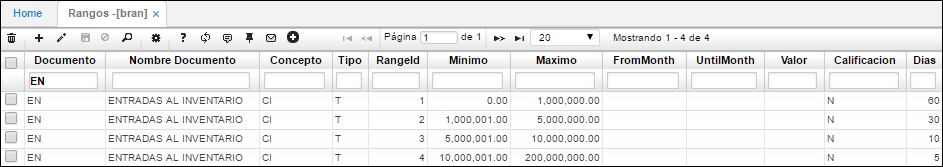
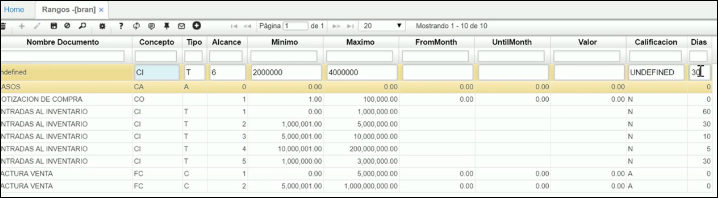
Inventario Ciclico

diff --git a/Operacion/scm/inventarios/ifisico/ifis.md b/Operacion/scm/inventarios/ifisico/ifis.md
@@ -26,20 +26,22 @@ Generado anteriormente el proceso de la aplicación [**IFPI - Prepara Inventario
 
 En el campo _Cantidad 1_ se ingresará por cada artículo el número de productos encontrados en el inventario realizado. Si el inventario lo va a realizar más de una persona, los usuarios ingresarán las cantidades en los campos _Cantidad 2_ y _Cantidad 3_. Estos datos corresponden a la información que se ingresó en la planilla descargada desde la aplicación [**IRIF - Plantilla Para Conteo Físico**](http://docs.oasiscom.com/Operacion/scm/inventarios/ifisico/irif).  
 
-Al ingresar un número en el campo _Cantidad 1_, es necesario dar click en el botón _Guardar_ de la barra de herramientas u oprimir la tecla _Enter_ para que el registro sea guardado.  
+Al ingresar un número en el campo _Cantidad 1_, es necesario dar clic en el botón _Guardar_ de la barra de herramientas u oprimir la tecla _Enter_ para que el registro sea guardado.  
 
 Ingresadas las cantidades de cada artículo, nos dirigiremos a la aplicación [**IFCD - Calcula Diferencias**](http://docs.oasiscom.com/Operacion/scm/inventarios/ifisico/ifcd), la cual nos ayudará a calcular las diferencias de existencias encontradas por el sistema en su base de datos con las ingresadas por el usuario.  
 
 
 ## [Inventario Cíclico](http://docs.oasiscom.com/Operacion/scm/inventarios/ifisico/ifis#inventario-cíclico)
 
-Generado anteriormente el proceso de la aplicación [**IFPI - Prepara Inventario Diario**](http://docs.oasiscom.com/Operacion/scm/inventarios/ifisico/ifpi#inventario-cíclico), procedemos a ingresar las cantidades de los productos inventariados en la aplicación IFIS - Registro de Conteos. Se consultará por fecha y ubicación, siendo estas, las mismas que se ingresaron en la generación del proceso en la aplicación  [**IFPI - Prepara Inventario Diario**](http://docs.oasiscom.com/Operacion/scm/inventarios/ifisico/ifpi#inventario-cíclico).  En dicha consulta, solo aparecerán los productos que clasifican en el rango indicado anteriormente en la generación del inventario cíclico así no se encuentren existencias de los productos.  
+Generado anteriormente el proceso de la aplicación [**IFPI - Prepara Inventario Diario**](http://docs.oasiscom.com/Operacion/scm/inventarios/ifisico/ifpi#inventario-cíclico), procedemos a ingresar las cantidades de los productos inventariados en la aplicación **IFIS - Registro de Conteos.** Se consultará por fecha y ubicación, siendo estas, las mismas que se ingresaron en la generación del proceso en la aplicación  [**IFPI - Prepara Inventario Diario**](http://docs.oasiscom.com/Operacion/scm/inventarios/ifisico/ifpi#inventario-cíclico).  En dicha consulta, solo aparecerán los productos que los cuales realizaremos el inventario ese dia. 
 
 ![](ifis4.png)
 
-En el campo _Cantidad 1_ se ingresará por cada artículo el número de productos encontrados en el inventario realizado. Si el inventario lo va a realizar más de una persona, los usuarios ingresarán las cantidades en los campos _Cantidad 2_ y _Cantidad 3_. Estos datos corresponden a la información que se ingresó en la planilla descargada desde la aplicación [**IRIF - Plantilla Para Conteo Físico**](http://docs.oasiscom.com/Operacion/scm/inventarios/ifisico/irif).
+En el campo _Cantidad 1_ se ingresará por cada artículo el número de productos encontrados en el inventario realizado. Si el inventario lo va a realizar más de una persona, los usuarios ingresarán las cantidades en los campos _Cantidad 2_ y _Cantidad 3_. 
 
-Al ingresar un número en el campo _Cantidad 1_, es necesario dar click en el botón _Guardar_ de la barra de herramientas u oprimir la tecla _Enter_ para que el registro sea guardado.  
+El sistema cuenta con una planilla de conteo físico la cual podemos descargar desde la aplicación [**IRIF - Plantilla Para Conteo Físico**](http://docs.oasiscom.com/Operacion/scm/inventarios/ifisico/irif).
+
+Al ingresar un número en el campo _Cantidad 1_, es necesario dar clic en el botón _Guardar_ de la barra de herramientas u oprimir la tecla _Enter_ para que el registro sea guardado.  
 
 En el campo _Real_, se muestran las cantidades por producto que existen en el sistema.  
 
@@ -50,8 +52,8 @@ Ingresadas las cantidades de cada artículo, nos dirigiremos a la aplicación [*
 
 ## [Validación de diferencias en inventario](http://docs.oasiscom.com/Operacion/scm/inventarios/ifisico/ifis#validación-de-diferencias-en-inventario)
 
-Generado el proceso en la aplicación  [**IFCD - Calcula Diferencias**](http://docs.oasiscom.com/Operacion/scm/inventarios/ifisico/ifcd), en la aplicación IFIS - Registo de Conteos validaremos las diferencias de existencias calculadas por el sistema, estas se podrán ver en el campo _Diferencia_.  
+Generado el proceso en la aplicación  [**IFCD - Calcula Diferencias**](http://docs.oasiscom.com/Operacion/scm/inventarios/ifisico/ifcd), en la aplicación **IFIS - Registro de Conteos** validaremos las diferencias de existencias calculadas por el sistema, estas se podrán ver en el campo _Diferencia_.  
 
 ![](ifis3.png)
 
-Validadas las diferencias ingresaremos a la aplicación [**IFAJ - Genera Ajustes**](http://docs.oasiscom.com/Operacion/scm/inventarios/ifisico/ifaj), en donde se generará el proceso para que el sistema realice los ajustes correspondientes al inventario de acuerdo a las diferencias encontradas anteriormente.  
+Validadas las diferencias ingresaremos a la aplicación [**IFAJ - Genera Ajustes**](http://docs.oasiscom.com/Operacion/scm/inventarios/ifisico/ifaj), en donde se generará el proceso para que el sistema realice los ajustes correspondientes al inventario de acuerdo con las diferencias encontradas anteriormente.   

diff --git a/Operacion/scm/inventarios/ifisico/ifpi.md b/Operacion/scm/inventarios/ifisico/ifpi.md
@@ -16,7 +16,7 @@ Proceso que genera un inventario diario para realizar los controles correspondie
 
 ## [Inventario Periódico](http://docs.oasiscom.com/Operacion/scm/inventarios/ifisico/ifpi#inventario-periódico)
 
-Mediante la aplicación IFPI se genera el inventario diario a realizar. Este proceso se debe ejecutar el mismo día en que se vaya a realizar el invantario.  
+Mediante la aplicación IFPI se genera el inventario diario a realizar. Este proceso se debe ejecutar el mismo día en que se vaya a realizar el inventario.  
 
 ![](ifpi1.png)
 
@@ -28,11 +28,11 @@ Para ejecutar el proceso de preparación de inventario periódico ingresamos los
 **Proceso:** seleccionar de la lista desplegable la opción _Periódico_.  
 **Tipo Producto:** seleccionar de la lista desplegable la opción _Terminado_.  
 
-Ingresados los datos, damos click en el botón _Generar_ ![](actualizar.png) y el sistema arrojará un mensaje indicando que el proceso se realizó satisfactoriamente.  
+Ingresados los datos, damos clic en el botón _Generar_ ![](actualizar.png) y el sistema arrojará un mensaje indicando que el proceso se realizó satisfactoriamente.  
 
 ![](ifpi2.png)
 
-Generado el anterior proceso, procederemos a realizar el inventario periódico en la aplicación [**IFIS - Registro de Conteos**](http://docs.oasiscom.com/Operacion/scm/inventarios/ifisico/ifis#inventario-periódico), para ello, el sistema cuenta con una planilla para conteo físico, la cual se puede descargar en la aplicación [**IRIF - Plantilla Para Conteo Físico**](http://docs.oasiscom.com/Operacion/scm/inventarios/ifisico/irif). En dicha planilla se podrán observar los productos a los cuales se les realizará inventario de acuerdo a los filtros de consulta, igualmente, cuenta con espacios para que los usuarios ingresen las cantidades de productos por cada uno.  
+Generado el anterior proceso, procederemos a realizar el inventario periódico en la aplicación [**IFIS - Registro de Conteos**](http://docs.oasiscom.com/Operacion/scm/inventarios/ifisico/ifis#inventario-periódico), para ello, el sistema cuenta con una planilla para conteo físico, la cual se puede descargar en la aplicación [**IRIF - Plantilla Para Conteo Físico**](http://docs.oasiscom.com/Operacion/scm/inventarios/ifisico/irif). En dicha planilla se podrán observar los productos a los cuales se les realizará inventario de acuerdo con los filtros de consulta, igualmente, cuenta con espacios para que los usuarios ingresen las cantidades de productos por cada uno.  
 
 
 ## [Inventario Cíclico](http://docs.oasiscom.com/Operacion/scm/inventarios/ifisico/ifpi#inventario-cíclico)
@@ -43,17 +43,17 @@ Para ejecutar el proceso de preparación de inventario cíclico ingresamos los s
 
 ![](ifpic.png)
 
-**Fecha:** ingresar el día anterior del cual se va a realizar el inventario cíclico.  
+**Fecha:** ingresar fecha del día el cual se va a realizar el inventario físico.  
 **Ubicación:** ingresar o seleccionar del zoom la ubicación (bodega) en la cual se encuentran los productos.  
 **Proceso:** seleccionar de la lista desplegable la opción _Cíclico_.  
 **Tipo Producto:** seleccionar de la lista desplegable la opción _Terminado_.  
 **Ciclo:** ingresar el número del rango del cual se realizará inventario. Dicho número se parametrizó en aplicación  [**BRAN - Rangos**](http://docs.oasiscom.com/Operacion/common/btercer/bran#inventario-cíclico) en el campo _Id Rango_.  
 
-Ingresados los datos, damos click en el botón _Generar_ ![](actualizar.png) y el sistema arrojará un mensaje indicando que el proceso se realizó satisfactoriamente.  
+Ingresados los datos, damos clic en el botón _Generar_ ![](actualizar.png) y el sistema arrojará un mensaje indicando que el proceso se realizó satisfactoriamente.  
 
 ![](ifpicp.png)
 
-Generado el anterior proceso, procederemos a realizar el inventario cíclico en la aplicación [**IFIS - Registro de Conteos**](http://docs.oasiscom.com/Operacion/scm/inventarios/ifisico/ifis#inventario-cíclico), para ello, el sistema cuenta con una planilla para conteo físico, la cual se puede descargar en la aplicación [**IRIF - Plantilla Para Conteo Físico**](http://docs.oasiscom.com/Operacion/scm/inventarios/ifisico/irif). En dicha planilla se podrán observar los productos a los cuales se les realizará inventario de acuerdo a los filtros de consulta, igualmente, cuenta con espacios para que los usuarios ingresen las cantidades de productos por cada uno.  
+Generado el anterior proceso, procederemos a realizar el inventario cíclico en la aplicación [**IFIS - Registro de Conteos**](http://docs.oasiscom.com/Operacion/scm/inventarios/ifisico/ifis#inventario-cíclico), para ello, el sistema cuenta con una planilla para conteo físico, la cual se puede descargar en la aplicación [**IRIF - Plantilla Para Conteo Físico**](http://docs.oasiscom.com/Operacion/scm/inventarios/ifisico/irif). En dicha planilla se podrán observar los productos a los cuales se les realizará inventario de acuerdo con los filtros de consulta, igualmente, cuenta con espacios para que los usuarios ingresen las cantidades de productos por cada uno.   
 
 
 

diff --git a/Operacion/common/btercer/bran.md b/Operacion/common/btercer/bran.md
@@ -10,6 +10,7 @@ editable: si
 Para realizar el inventario cíclico es necesario parametrizar previamente en la aplicación **BRAN** los rangos de los valores que corresponden al total de inventario y que se tendrán en cuenta al momento de generar dicho inventario.
 
 
+
 ## [Inventario Cíclico](http://docs.oasiscom.com/Operacion/common/btercer/bran#inventario-cíclico)
 
 Agregamos un nuevo registro y diligenciamos los siguientes campos.  
@@ -17,11 +18,18 @@ Agregamos un nuevo registro y diligenciamos los siguientes campos.
 ![](BRAN.png)
 
 **Documento:** ingresar documento EN correspondiente a _Entradas al Inventario_.  
-**Concepto:** ingresar el concepto que la empresa haya parametrizado en la aplicación [**BDOC - Documentos**](http://docs.oasiscom.com/Operacion/common/bsistema/bdoc) para este tipo de documento. En este caso, el concepto será CI correspondiente a _Cargue Inicial por Inventario Físico_.  
+**Concepto:** ingresar el concepto que la empresa haya parametrizado en la aplicación [**BDOC - Documentos**](http://docs.oasiscom.com/Operacion/common/bsistema/bdoc) para este tipo de documento. En este caso, el concepto será CI correspondiente a _Cargue Inicial por Inventario Físico_, este puede variar según la parametrización de la empresa.  
 **Tipo:** ingresar la letra **T** correspondiente a _Terminado_.  
-**Id del Rango:** asignar el número de renglón para cada rango, este número es el que identifica cada rango en las demás aplicaciones que lo requieran.  
-**Mínimo:** ingresar el valor mínimo del rango que se regista.  
+**Alcance:** asignar el número de renglón para cada rango, este número es el que identifica cada rango en las demás aplicaciones que lo requieran.  
+**Mínimo:** ingresar el valor mínimo del rango que se revista.  
 **Máximo:** ingresar el valor máximo del rango que se registra. Este valor corresponde a la suma del total de productos inventariados.  
 **Días:** ingresar la cantidad de días que se deberá realizar el inventario para cada rango.  
 
-Parametrizados los rangos, ingresaremos a la aplicación [**IFPI - Prepara Inventario Diario**](http://docs.oasiscom.com/Operacion/scm/inventarios/ifisico/ifpi#inventario-cíclico), en donde se generará el proceso para realizar el inventario cíclico.  
+Después de llenar los campos correspondientes procedemos a guardar dando clic ![](guardar.png)
+
+Parametrizados los rangos, ingresaremos a la aplicación [**IFPI - Prepara Inventario Diario**](http://docs.oasiscom.com/Operacion/scm/inventarios/ifisico/ifpi#inventario-cíclico), en donde se generará el proceso para realizar el inventario cíclico.   
+
+
+
+
+

diff --git a/Operacion/scm/inventarios/imovimient/imov.md b/Operacion/scm/inventarios/imovimient/imov.md
@@ -336,19 +336,12 @@ Una vez validada la información del pedido se procesa el documento y se realiza
 
 
 **Documento:** SA correspondiente a salida de inventario.  
-
 **Ubicación:** 3 correspondiente a la ubicación de donde saldrá la mercancía.  
-
 **Concepto:** TR correspondiente a traslado.  
-
 **Tercero:** Tercero correspondiente.  
-
 **Ubicación Destino:** 1 La ubicación a la que se requiere llevar la mercancía.  
-
 **Documento1:** LD Documento del pedido creado automáticamente en **LPED**.  
-
 **Número1:** 2 Número del pedido correspondiente al campo anterior.  
-
 **Ubicación1:** 1 Ubicación del pedido correspondiente al campo anterior.  
 
 
@@ -393,9 +386,7 @@ Se procesa el registro
 
 En la aplicación **IMOV** se validarán los documentos de ajuste generados por la aplicación [**IFAJ - Genera Ajustes**](http://docs.oasiscom.com/Operacion/scm/inventarios/ifisico/ifaj), estos deberán ser procesados con el fin de adecuar correctamente el inventario realizado.  
 
-
-
-Para consultar los documentos filtraremos por la fecha en que se realizó el inventario.  
+Estos documentos se pueden procesar con el fin de adecuar el inventario realizado. Para consultar los documentos filtraremos por la fecha en que se realizó el inventario.  
 
 
 
@@ -405,6 +396,8 @@ Para consultar los documentos filtraremos por la fecha en que se realizó el inv
 
 En la aplicación se generó un documento _EN - Entradas al inventario_ por concepto _EA - Entrada por ajuste_, el cual corresponde a las unidades que se encuentran físicamente pero que no estaban registradas en el sistema. Por otro lado, también se generó el documento _SA - Salidas del inventario_ por concepto _SA - Salida por ajuste_, el cual corresponde a las unidades de más que se encuentran registradas en el sistema pero que no existen físicamente. En el detalle de cada documento se podrán ver los productos a los cuales se les realizó ajuste.  
 
+
+![](imovv.png)
 
 
 Validada la información procesamos los documentos dando clic en el botón _Procesar_ ![](procesar.png) ubicado en la barra de herramientas, esto permitirá que el inventario sea ajustado correctamente.  

diff --git a/Operacion/movil/ifisico/ifpi.md b/Operacion/movil/ifisico/ifpi.md
@@ -7,18 +7,18 @@ editable: si
 
 # Prepara Inventario Diario - IFPI  
 
-Mediante la aplicación IFPI se genera la preparación del inventario a realizar. Este proceso se debe ejecutar el mismo día en que se vaya a realizar el inventario.  
+Mediante la aplicación **IFPI** se genera la preparación del inventario a realizar. Este proceso se debe ejecutar el mismo día en que se vaya a realizar el inventario.  
 
 ![](ifpi1.png)
 
-•	Para ejecutar el proceso de preparación de inventario periódico ingresamos los siguientes datos:
-Fecha: fecha actual en la que se va a realizar el inventario.
-Ubicación: ingresar o seleccionar del zoom la ubicación (bodega) en la cual se encuentran los productos.
-Línea: si el inventario se va a realizar por la línea de producto, ingresar la línea correspondiente.
-Proceso: seleccionar de la lista desplegable la opción Periódico.
-Tipo Producto: seleccionar de la lista desplegable la opción Terminado.
+Para ejecutar el proceso de preparación de inventario periódico ingresamos los siguientes datos:
+**Fecha:** fecha actual en la que se va a realizar el inventario.  
+**Ubicación:** ingresar o seleccionar del zoom la ubicación (bodega) en la cual se encuentran los productos.  
+**Línea:** si el inventario se va a realizar por la línea de producto, ingresar la línea correspondiente.  
+**Proceso:** seleccionar de la lista desplegable la opción Periódico.  
+**Tipo Producto:** seleccionar de la lista desplegable la opción Terminado.  
 
-Ingresados los datos, damos click en el botón Generar ![](ifpi3.png)  y el sistema arrojará un mensaje indicando que el proceso se realizó satisfactoriamente.
+Ingresados los datos, damos clic en el botón Generar ![](ifpi3.png)  y el sistema arrojará un mensaje indicando que el proceso se realizó satisfactoriamente.
 
 ![](ifpi2.png)
 

diff --git a/Operacion/common/btercer/bter.md b/Operacion/common/btercer/bter.md
@@ -5,7 +5,7 @@ permalink:  /Operacion/common/btercer/bter
 editable: si
 ---
 
-# TERCEROS - BTER
+# Terceros - BTER
 
 **Menú**
 
